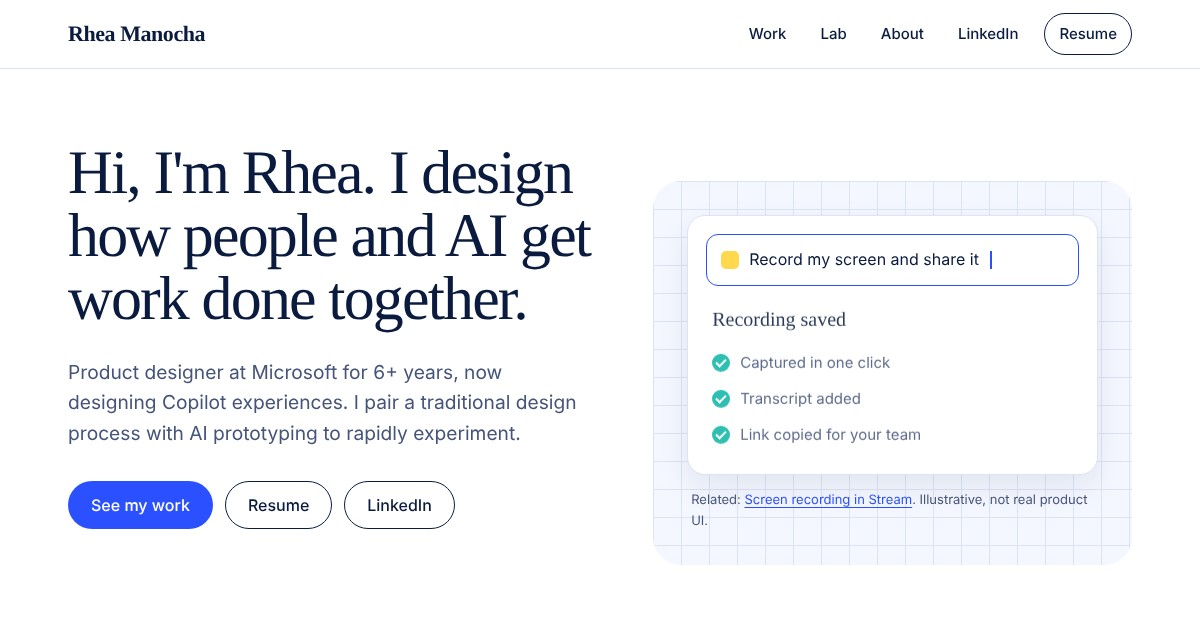
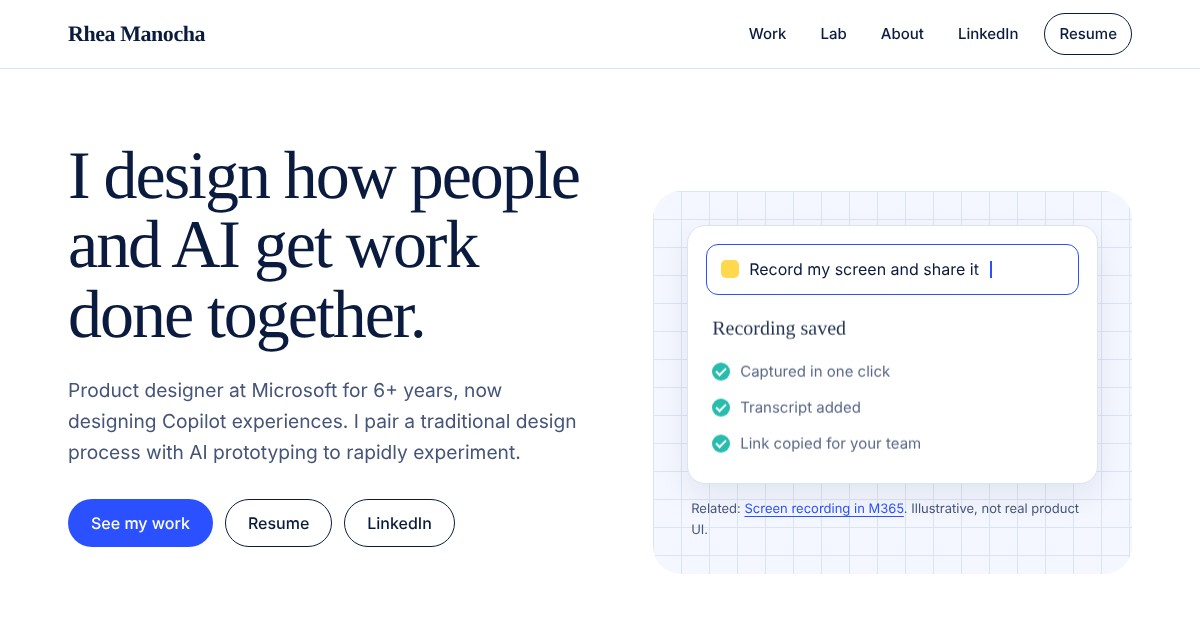
Homepage headline: drop greeting
Claude-Session: https://claude.ai/code/session_014awbfiEWitQCUA7aGJw7XG

diff --git a/index.html b/index.html
@@ -13,19 +13,19 @@
 <meta property="og:image" content="https://rheamanocha.me/assets/img/og-image.jpg">
 <meta property="og:image:width" content="1200">
 <meta property="og:image:height" content="630">
-<meta property="og:image:alt" content="Rhea Manocha's portfolio homepage: Hi, I'm Rhea. I design how people and AI get work done together.">
+<meta property="og:image:alt" content="Rhea Manocha's portfolio homepage: I design how people and AI get work done together.">
 <meta name="twitter:card" content="summary_large_image">
 <meta name="twitter:image" content="https://rheamanocha.me/assets/img/og-image.jpg">
 <link rel="preconnect" href="https://fonts.googleapis.com">
 <link rel="preconnect" href="https://fonts.gstatic.com" crossorigin>
 <link href="https://fonts.googleapis.com/css2?family=Bricolage+Grotesque:opsz,wght@12..96,400;12..96,500;12..96,700&family=Fraunces:ital,opsz,wght,SOFT,WONK@0,9..144,400..700,0..100,0..1&display=swap" rel="stylesheet">
-<link rel="stylesheet" href="assets/css/styles.css?v=20261112a">
+<link rel="stylesheet" href="assets/css/styles.css?v=20261112b">
 </head>
 <body>
 <a class="skip" href="#main-content">Skip to content</a>
 <header class="site-header" id="header"></header>
 <main id="main-content"><div id="app"></div></main>
 <footer class="site-footer" id="footer"></footer>
-<script src="assets/js/app.js?v=20261112a"></script>
+<script src="assets/js/app.js?v=20261112b"></script>
 </body>
 </html>

diff --git a/preview/index.html b/preview/index.html
@@ -14,7 +14,7 @@
 <meta property="og:image" content="https://rheamanocha.me/preview/assets/img/og-image.jpg">
 <meta property="og:image:width" content="1200">
 <meta property="og:image:height" content="630">
-<meta property="og:image:alt" content="Rhea Manocha's portfolio homepage: Hi, I'm Rhea. I design how people and AI get work done together.">
+<meta property="og:image:alt" content="Rhea Manocha's portfolio homepage: I design how people and AI get work done together.">
 <meta name="twitter:card" content="summary_large_image">
 <meta name="twitter:image" content="https://rheamanocha.me/preview/assets/img/og-image.jpg">
 <link rel="preconnect" href="https://fonts.googleapis.com">
